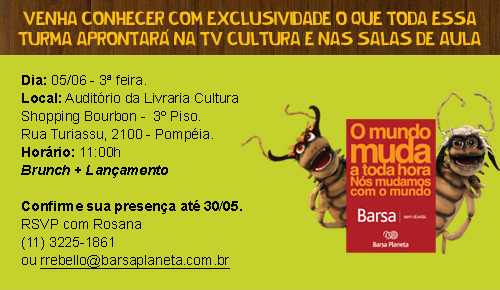
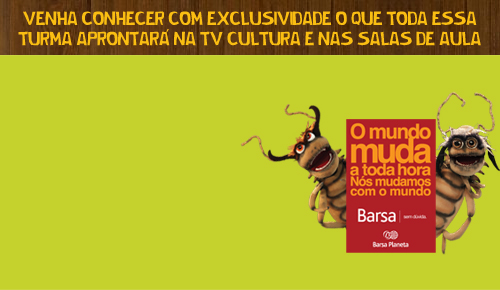
texto html - newsletter os cupins

Changed region(s): [[0.03, 0.2483, 0.48, 0.6207], [0.03, 0.6828, 0.48, 0.931]]

diff --git a/web/newsletter/os-cupins/index.html b/web/newsletter/os-cupins/index.html
@@ -15,7 +15,10 @@
 	.conteudo p { font-size: 12px; text-align:center; padding: 20px 40px 0 40px; }
 	.logo { width:235px; height:121px; margin:0 auto; }
 	.box { margin:0; padding:0; border:none; }
-	
+	.texto { background: url(images/img02.jpg) no-repeat; width:480px; height:215px; padding:75px 0 0 20px;  }
+	.texto p { margin:0; padding:0;text-align: left; font-size:14px; margin-bottom:2px; }
+	.texto span { font-weight:bold; }
+	.texto a { color:#000; }
 </style>
 
 <body>
@@ -23,12 +26,24 @@
 		<p class="visualizar">Caso não consiga visualizar este e-mail, <a href="http://cmais.com.br/newsletter/os-cupins/index.html">clique aqui</a></p>
 		<div class="conteudo">
 			<div class="box"><img src="images/img01.jpg" border="0"/></div>
-			<div class="box"><img src="images/img02.jpg" border="0" usemap="#Map"/></div>
+			<div class="box">
+				<div class="texto">
+					<p><span>Dia:</span>05/06 - 3ª feira</p>
+					<p><span>Local:</span>Auditório da Livraria Cultura</p>
+					<p>Shopping Bourbon -  3º Piso</p>
+					<p>Rua Turiassu, 2100 - Pompéia</p>
+					<p><span>Horário:</span>11:00h</p>
+					<p><span>Brunch + Lançamento</span></p>
+					<br />
+					<p><span>Confirme sua presença até 30/05.</span></p>
+					<p>RSVP com Rosana</p>
+					<p>(11) 3225-1861</p>
+					<p><a title="mailto:rrebello@barsaplaneta.com.br" href="mailto:rrebello@barsaplaneta.com.br">ou rrebello@barsaplaneta.com.br</a></p>
+				</div>
+			</div>
 			<div class="box"><img src="images/img03.jpg" border="0"/></div>
 		</div>
-		<map name="Map">
-			<area shape="rect" coords="38,250,233,274" href="mailto:julianoanversi@tvcultura.com.br" target="_blank" alt="rrebello@barsaplaneta.com.br " title="rrebello@barsaplaneta.com.br" usemap="#map" border="0">
-		</map>
+		
 	</div>
 	
 </body>
